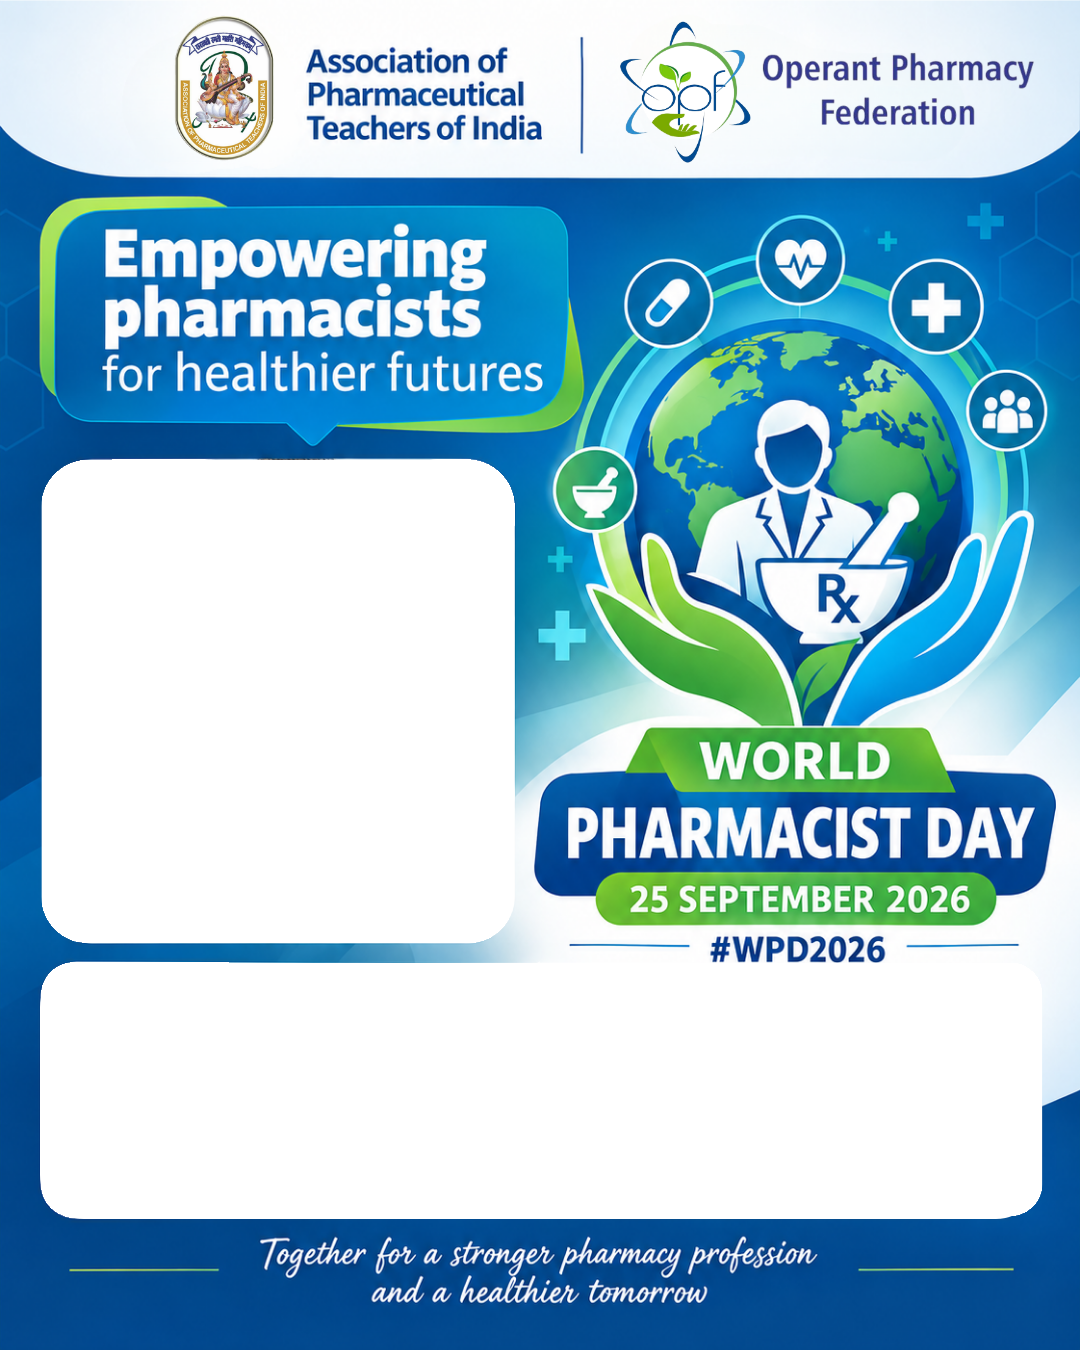
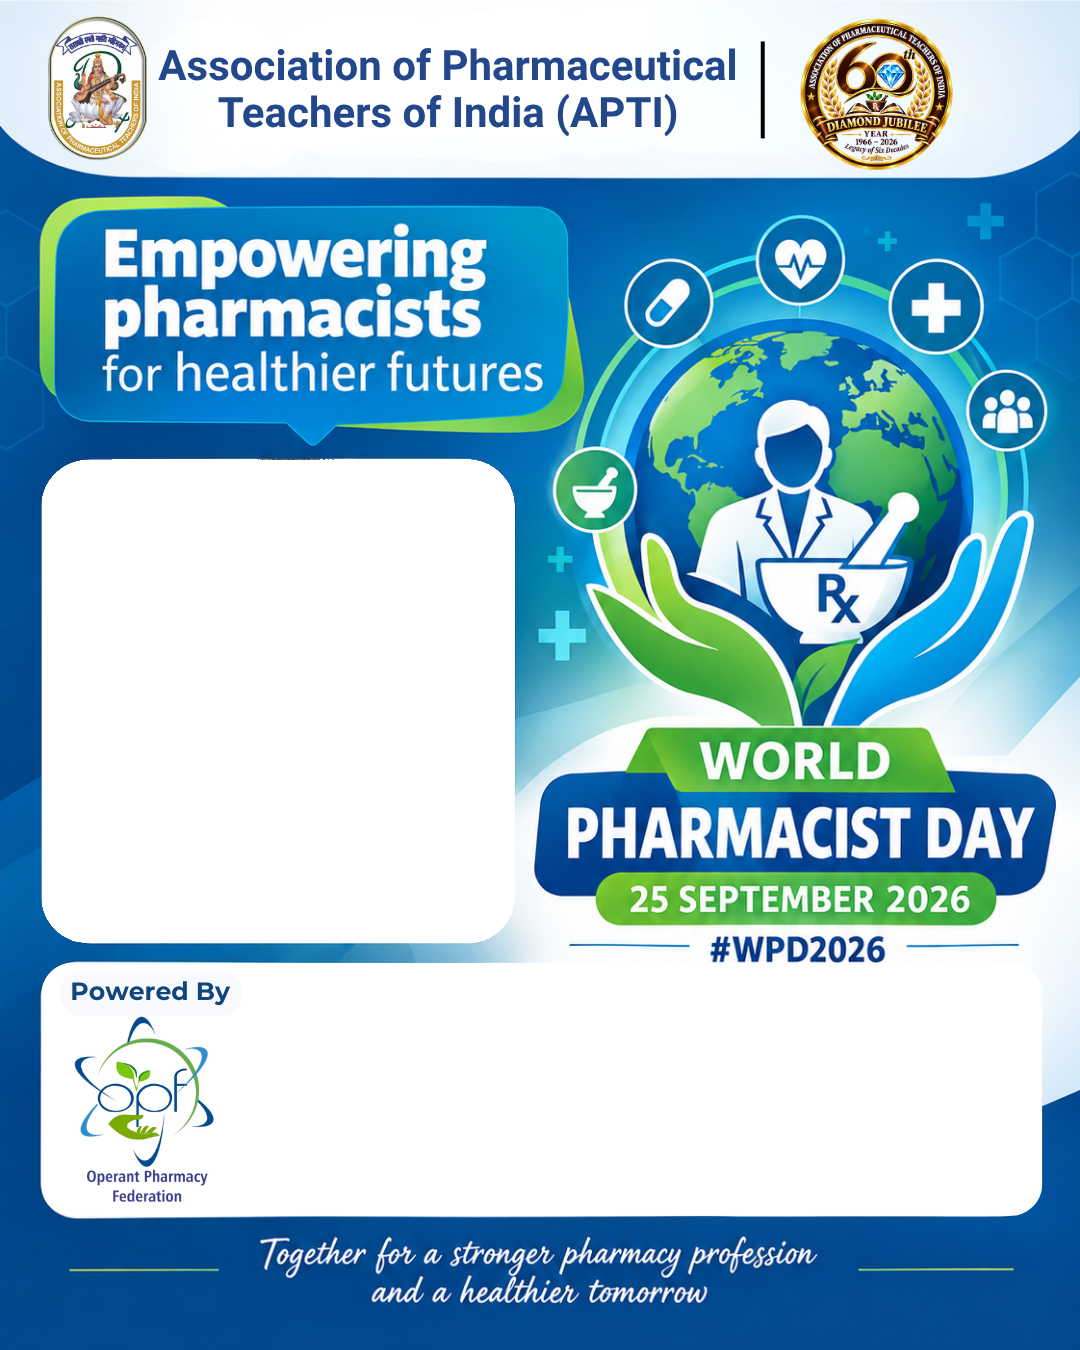
fix: update WPD client layout and improve text positioning for better visibility

Changed region(s): [[0.0306, 0.0, 0.9778, 0.1244], [0.0611, 0.7156, 0.2139, 0.9022]]

diff --git a/app/wpd/WpdClient.tsx b/app/wpd/WpdClient.tsx
@@ -7,7 +7,9 @@ import { Button } from "@/components/ui/shadcn/button";
 const WIDTH = 1080;
 const HEIGHT = 1350;
 const PHOTO = { x: 40, y: 460, width: 476, height: 484, radius: 44 };
-const NAME_AREA = { x: 40, y: 963, width: 1000, height: 256, radius: 44 };
+// The updated template reserves the left side of the white panel for the
+// Powered By logo. Keep the editable copy in the open area on the right.
+const NAME_AREA = { x: 255, y: 975, width: 745, height: 220, radius: 24 };
 
 type FormState = { name: string; designation: string; organization: string; email: string; mobile: string };
 
@@ -51,13 +53,6 @@ export default function WpdClient() {
     ctx.clearRect(0, 0, WIDTH, HEIGHT);
     ctx.drawImage(background, 0, 0, WIDTH, HEIGHT);
 
-    // Keep the editable name/designation panel clean when the template has blank fields.
-    ctx.save();
-    roundedPath(ctx, NAME_AREA.x, NAME_AREA.y, NAME_AREA.width, NAME_AREA.height, NAME_AREA.radius);
-    ctx.fillStyle = "#ffffff";
-    ctx.fill();
-    ctx.restore();
-
     ctx.save();
     roundedPath(ctx, PHOTO.x, PHOTO.y, PHOTO.width, PHOTO.height, PHOTO.radius);
     ctx.clip();
@@ -81,17 +76,18 @@ export default function WpdClient() {
     const name = form.name.trim() || "Your Name";
     const designation = form.designation.trim() || "Your Designation";
     const organization = form.organization.trim() || "Your Organization";
-    const nameSize = fitText(ctx, name, 900, 54);
+    const nameSize = fitText(ctx, name, NAME_AREA.width - 36, 54);
     ctx.fillStyle = "#123b83";
     ctx.font = `800 ${nameSize}px Arial, sans-serif`;
     ctx.textAlign = "center";
-    ctx.fillText(name, WIDTH / 2, 1080);
+    const textCenterX = NAME_AREA.x + NAME_AREA.width / 2;
+    ctx.fillText(name, textCenterX, 1055);
     ctx.fillStyle = "#173d89";
     ctx.font = "400 30px Arial, sans-serif";
-    ctx.fillText(designation, WIDTH / 2, 1125);
+    ctx.fillText(designation, textCenterX, 1105);
     ctx.fillStyle = "#173d89";
-    ctx.font = `400 ${fitText(ctx, organization, 900, 28)}px Arial, sans-serif`;
-    ctx.fillText(organization, WIDTH / 2, 1170);
+    ctx.font = `400 ${fitText(ctx, organization, NAME_AREA.width - 36, 28)}px Arial, sans-serif`;
+    ctx.fillText(organization, textCenterX, 1155);
     ctx.textAlign = "start";
 
     if (!saved) {
